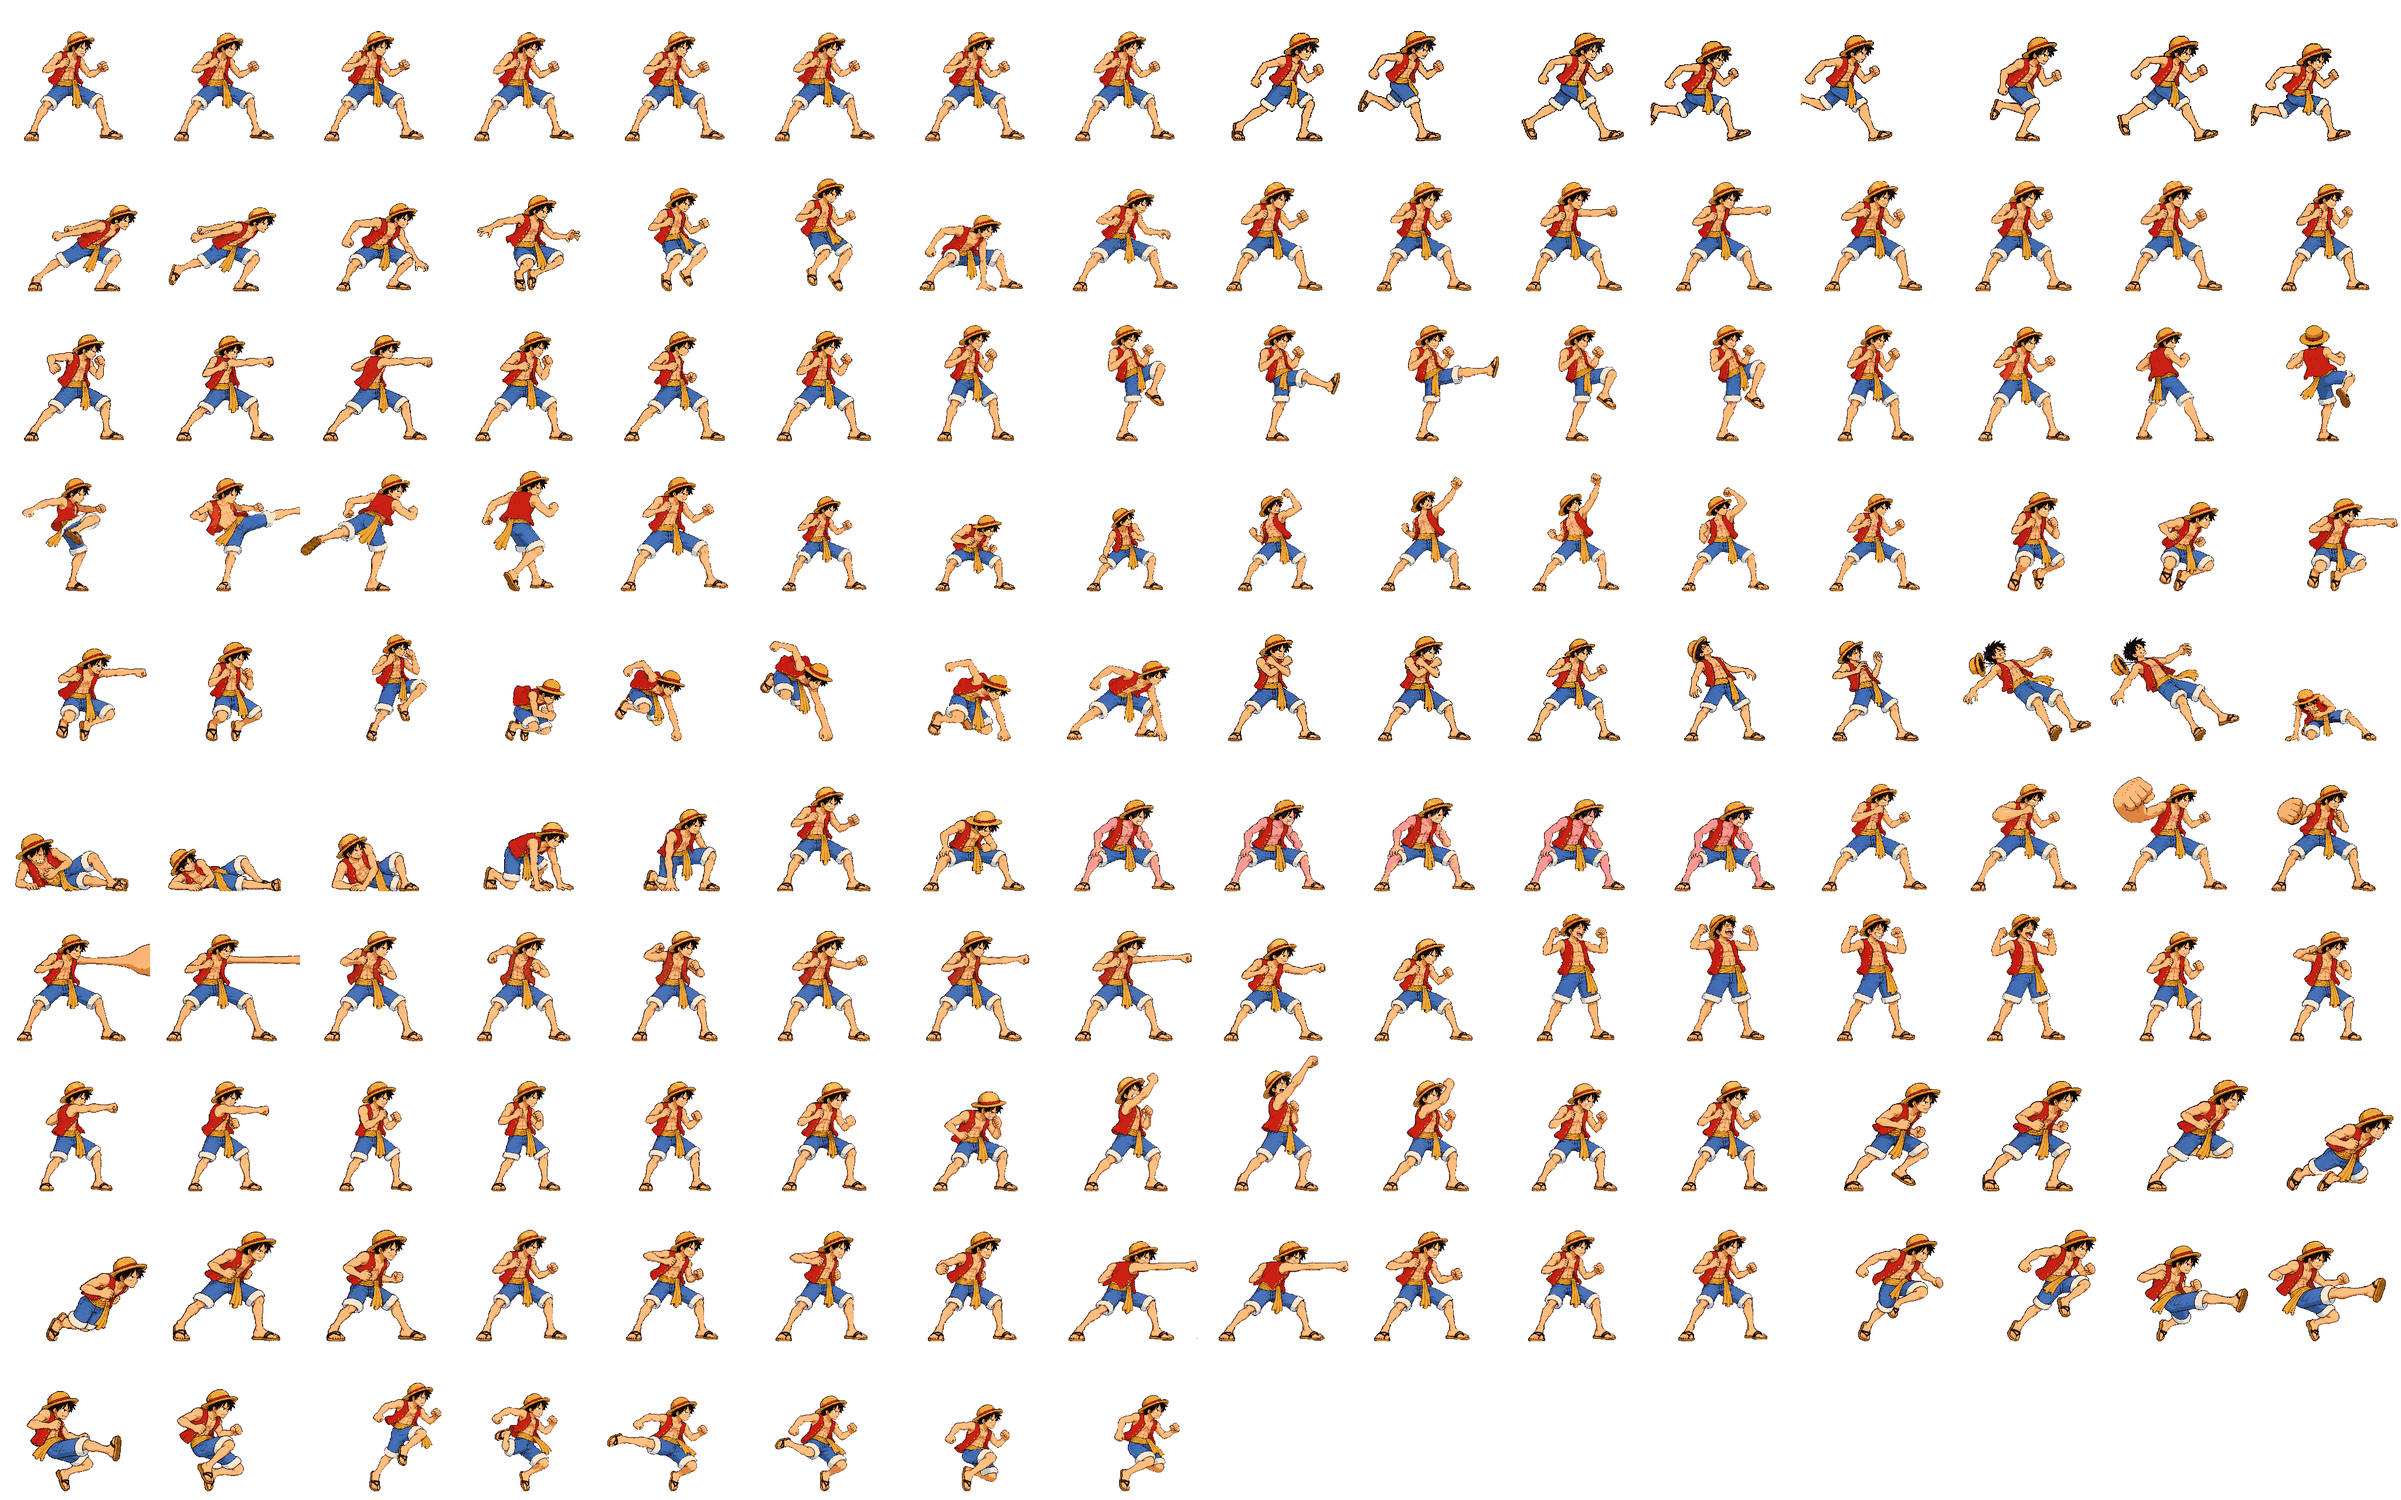
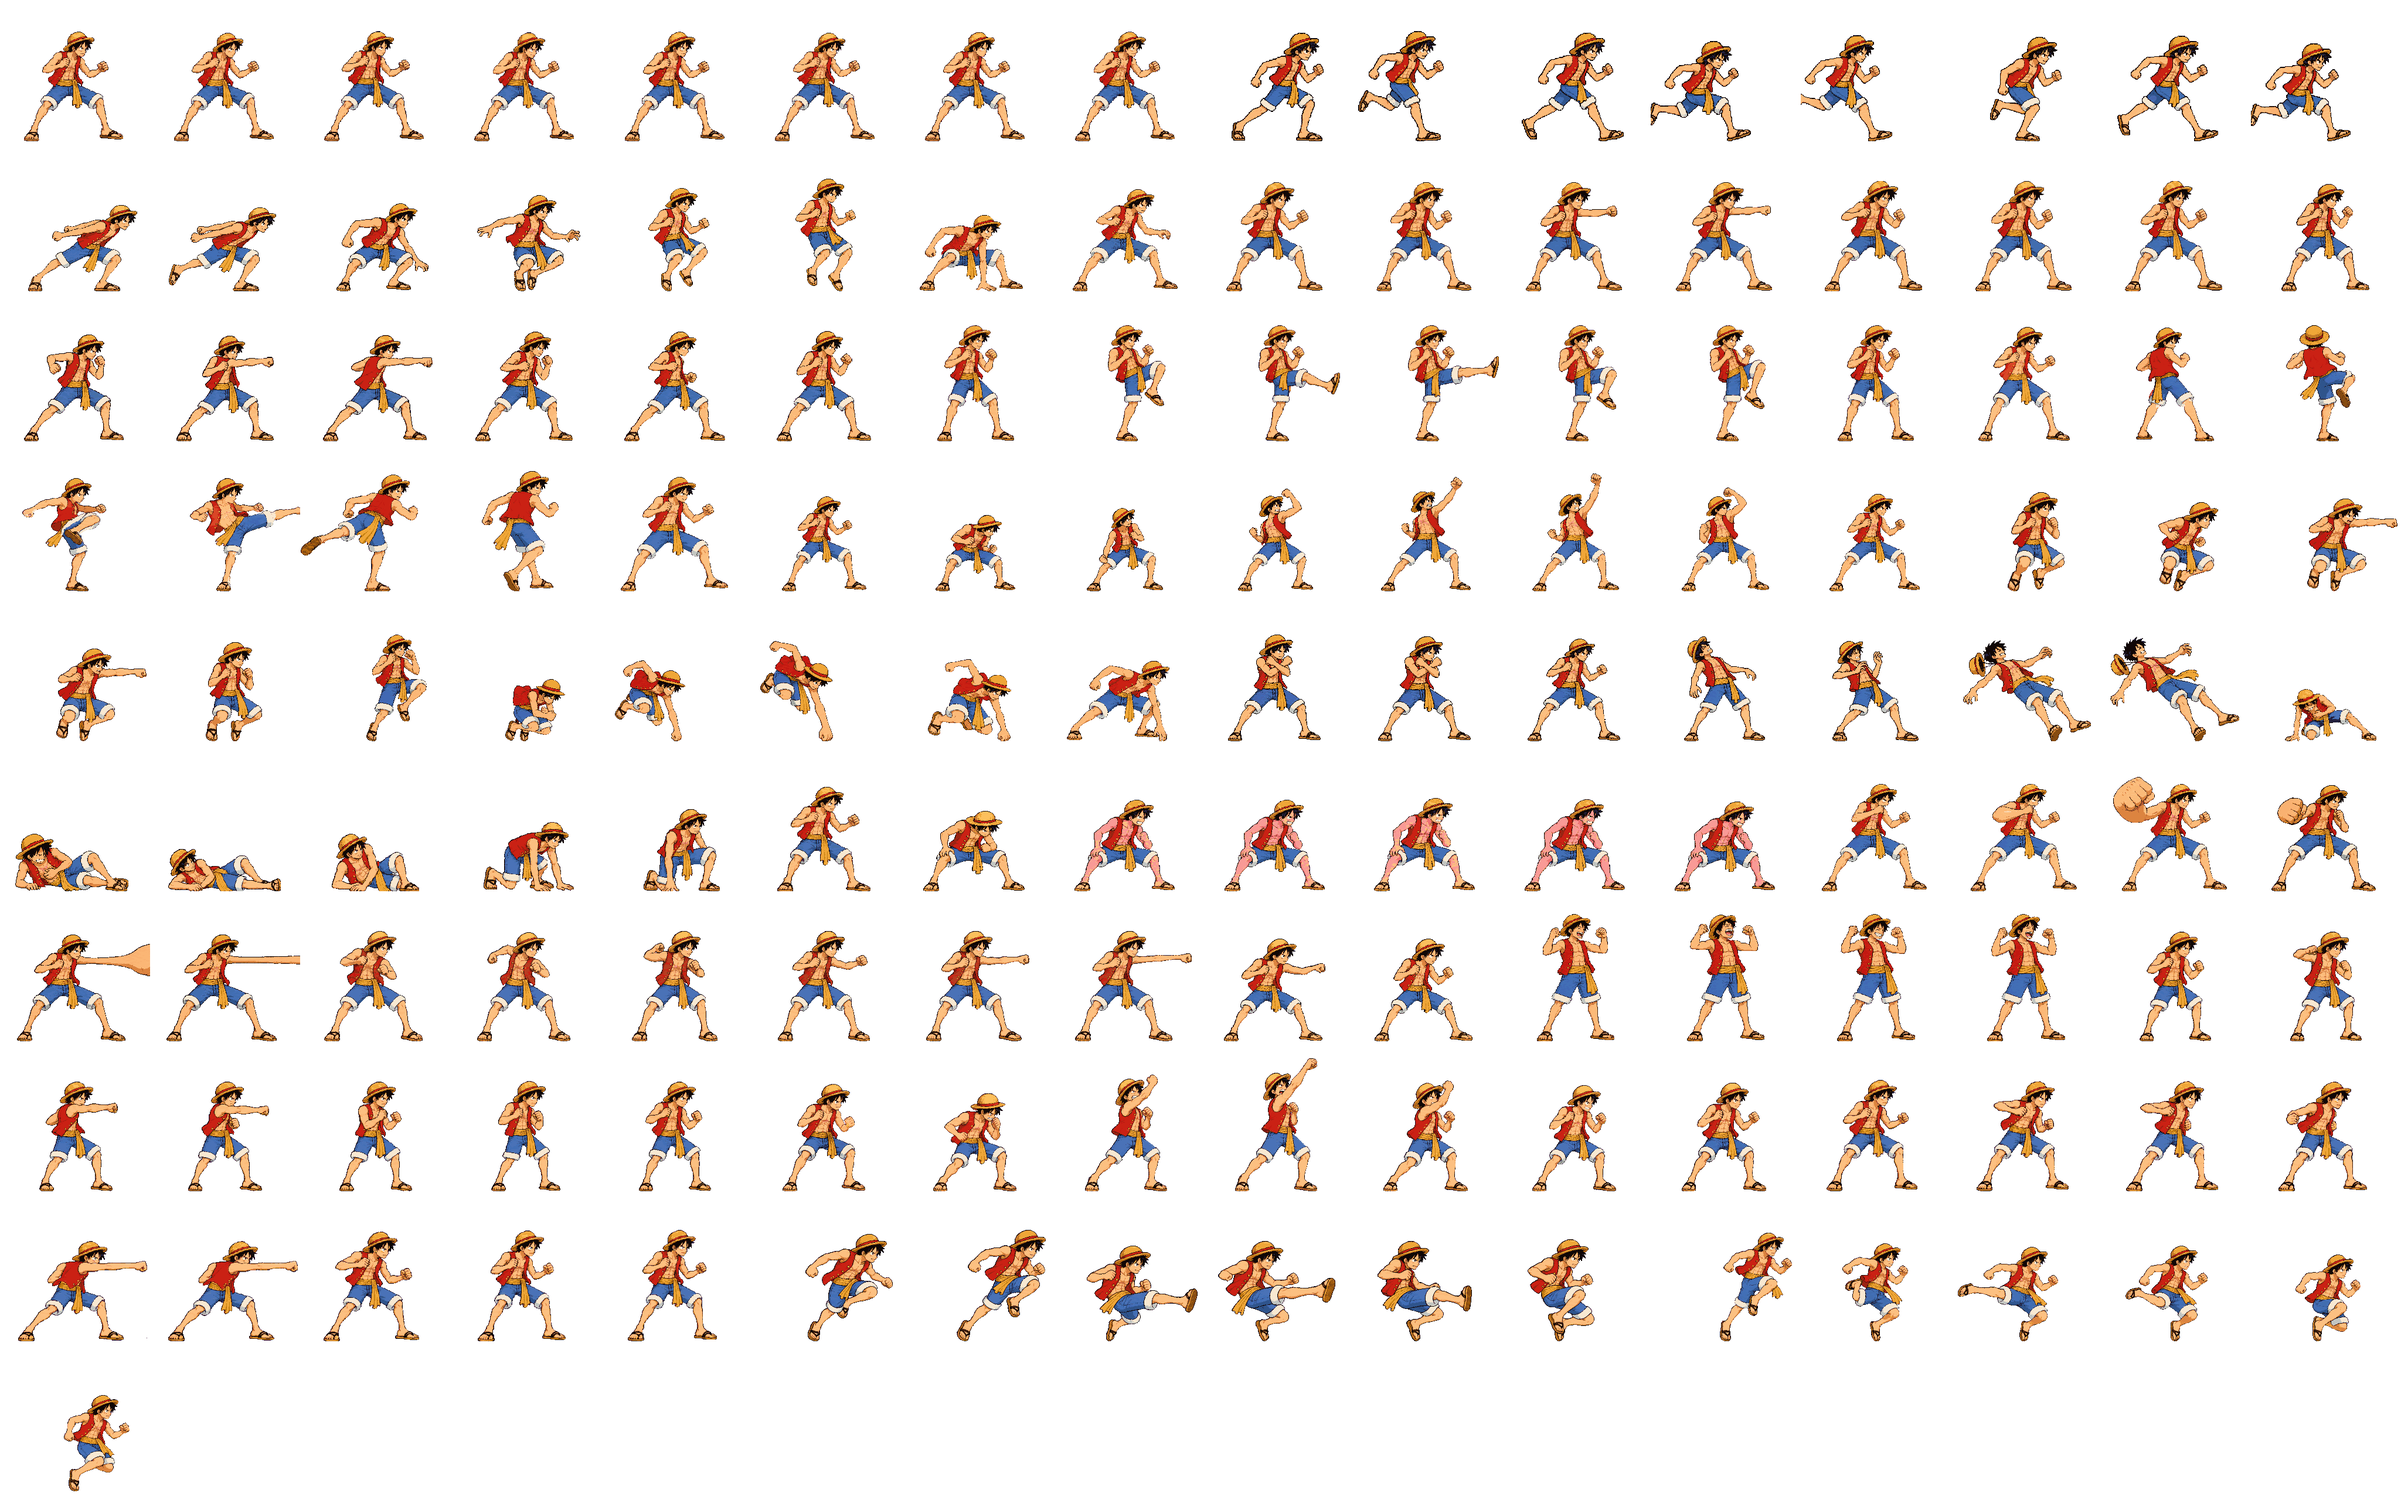
art(luffy): uTilt at x1.13, hold dashAttack for the redraw round
User decisions after Astra's holds: retry uTilt v02 at strip packScale 1.13
(x1.15 read the hat 6-10% large) and add dashAttack v02 (head about 29%
large) to the redraw round. Five ENG-112 strips pack now.

diff --git a/art/TRACKER.md b/art/TRACKER.md
@@ -494,7 +494,7 @@ manifest lists all ten per fighter (status `todo`, bodyHeight copied from that f
 | killua | fTilt v02 approved; dTilt v02 approved | dashAttack v02 approved | fSmash v02 approved; uSmash stand-in; dSmash v03 approved | fair/bair v02 approved; uair stand-in | ENG-112: all ten drawings approved via Claude relays #20/#22. Relay #24 first pack d62a961c ships seven; uTilt/uSmash/uair remain in _qa_hold for follow-up; contact crops in public/reviews/normals-killua/ship-seven/. |
 | gojo | fTilt v01, uTilt v01, dTilt v02 approved | dashAttack v01 approved | fSmash/uSmash/dSmash v01 approved | fair v01, bair v02, uair v01 approved | ENG-112: all ten drawings approved via Claude relays #30/#35. Nine-move branch merged; uair v01 reviewed at retry-34. Astra technical holds and Claude runtime contact check remain. |
 | goku | fTilt v01 approved; uTilt v04 approved via Claude relay #45 at strip packScale 1.09; dTilt v01 approved | dashAttack v01 approved | fSmash v01 approved; uSmash v05 held (relay #46; packed body 160–216px vs idle 213–214px, contact boxes oversized); dSmash v06 held (relay #46; active boots clipped, anatomy enlarged, contacts misplaced) | fair v01, bair v01, uair v01 approved | ENG-112 branch art/normals-goku-r2: uTilt v04 restored unchanged from _qa_hold at strip packScale 1.09. Astra relay #45 final5 scale/anatomy pass; version-bound f3/f4 strike boxes verified. Runtime combat contact remains with Claude. Relay #46 used all six authorized calls; uSmash v05 and dSmash v06 stay in _qa_hold after Astra final5 HOLD. See relay46 review page/audit; call budgets exhausted pending a new user decision. |
-| luffy | fTilt v01 approved, shipping; uTilt v02 approved, shipping at strip packScale 1.15; dTilt v02 approved, held | dashAttack v02 approved, shipping with f2/f4 frameOffsets and a scripted erase of the pink haze on frame index 3 | fSmash v02 approved, shipping; uSmash v03 and dSmash v02 approved, held | fair v03, bair v03 approved, shipping; uair v01 approved, held | ENG-112: all ten drawings approved via Claude relay combat #49. Six ship first on `art/normals-luffy` (Claude import fixes, fTilt/bair hitboxes.json overrides); uTilt/dashAttack need Astra's version-bound scaleManualQA before the strict gate passes. dTilt, uSmash, dSmash and uair wait in raw/_qa_hold/ for the user-chosen redraw round (relay #50, `art/normals-luffy-r2`); stand-ins stay live |
+| luffy | fTilt v01 approved, shipping; uTilt v02 approved, shipping at strip packScale 1.13 once Astra rechecks it (x1.15 held: hat +6-10%); dTilt v02 approved, held | dashAttack v02 approved, held (Astra: head about +29%); redraw with the head at idle size | fSmash v02 approved, shipping; uSmash v03 and dSmash v02 approved, held | fair v03, bair v03 approved, shipping; uair v01 approved, held | ENG-112: all ten drawings approved via Claude relay combat #49. Five ship first on `art/normals-luffy` (Claude import fixes; fTilt/bair hitboxes.json overrides). dTilt, dashAttack, uSmash, dSmash and uair wait in raw/_qa_hold/ for the user-chosen redraw round (relay #50 plus the dashAttack decision, `art/normals-luffy-r2`); stand-ins stay live |
 
 ## VFX atlas (step 10)
 

diff --git a/CHANGELOG.md b/CHANGELOG.md
@@ -17,7 +17,7 @@ Fixed, Security. Reference task ids and ADRs where useful.
 
 ## [Unreleased]
 
-- Added (ENG-112): Luffy's first six Smash-style normals: fTilt, uTilt, dashAttack, fSmash, fair and bair (user-approved drawings; uTilt imported at x1.15 to match his idle, dashAttack shifted inside the cell with a scripted cleanup, fist and rear-heel hit boxes for fTilt and bair). dTilt, uSmash, dSmash and uair keep their stand-ins while a redraw round runs.
+- Added (ENG-112): Luffy's first five Smash-style normals: fTilt, uTilt, fSmash, fair and bair (user-approved drawings; uTilt imported at x1.13 to match his idle, a fist box for fTilt and a rear-heel box for bair). dTilt, dashAttack, uSmash, dSmash and uair keep their stand-ins while a redraw round runs.
 - Changed (ART-CHARGE): the user approved Luffy charge v02 as drawn; packed 6 frames with `loopFrom: 2`, recorded Astra's manual scale pass and loop-contract hold for Claude's integration review.
 - Added (ENG-119): the announcer is a living character. He talks only at the big moments (no filler; about a line every 5 s at most) and shows everything else with his poses and manga symbols over his head (sweat drops, !!, ?, anger, dizzy stars, music notes, steam, sparkles). Blasts, beams, shots and fighters flying into him knock him flat; he pops back up dizzy, and sooty after a blast. He facepalms at a super that misses, winces at brutal hits, cheers huge combos and comebacks, hums or fidgets in quiet moments, tires over a long round, and babbles soft voice blips while a line shows. Ten new poses for this are with Codex (ART-NPC-ANN-R2); until they are approved he uses his existing ones.
 
